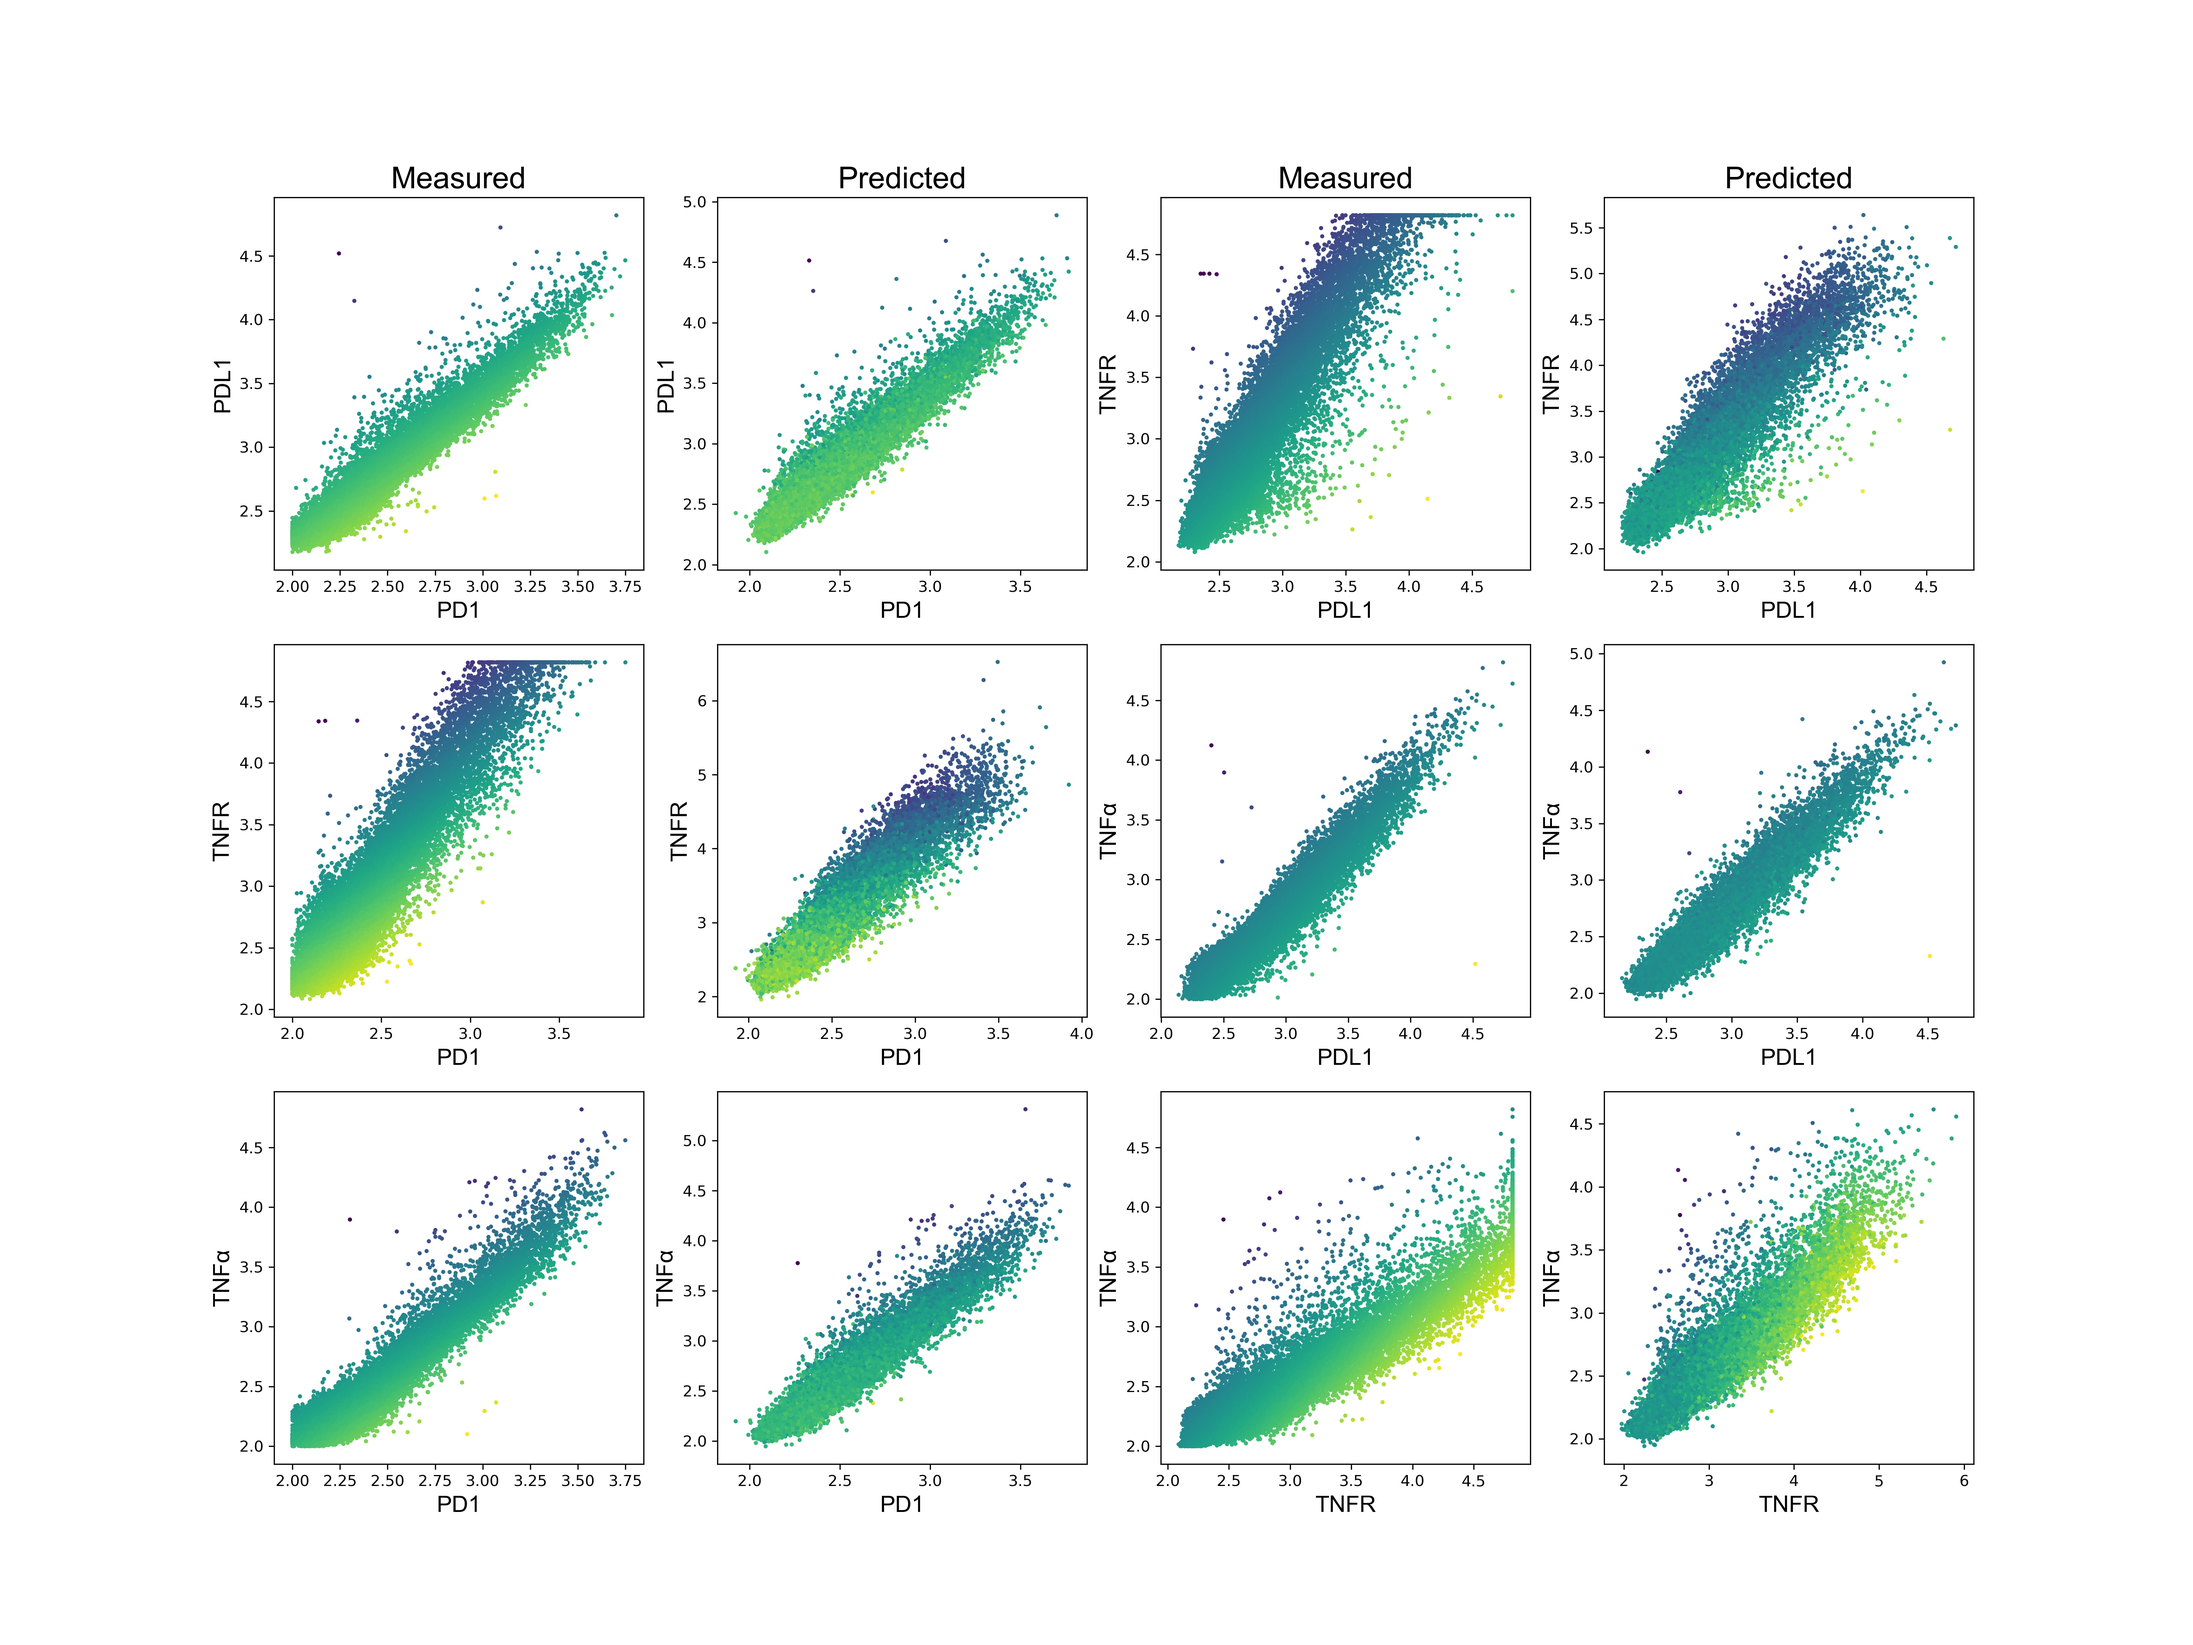
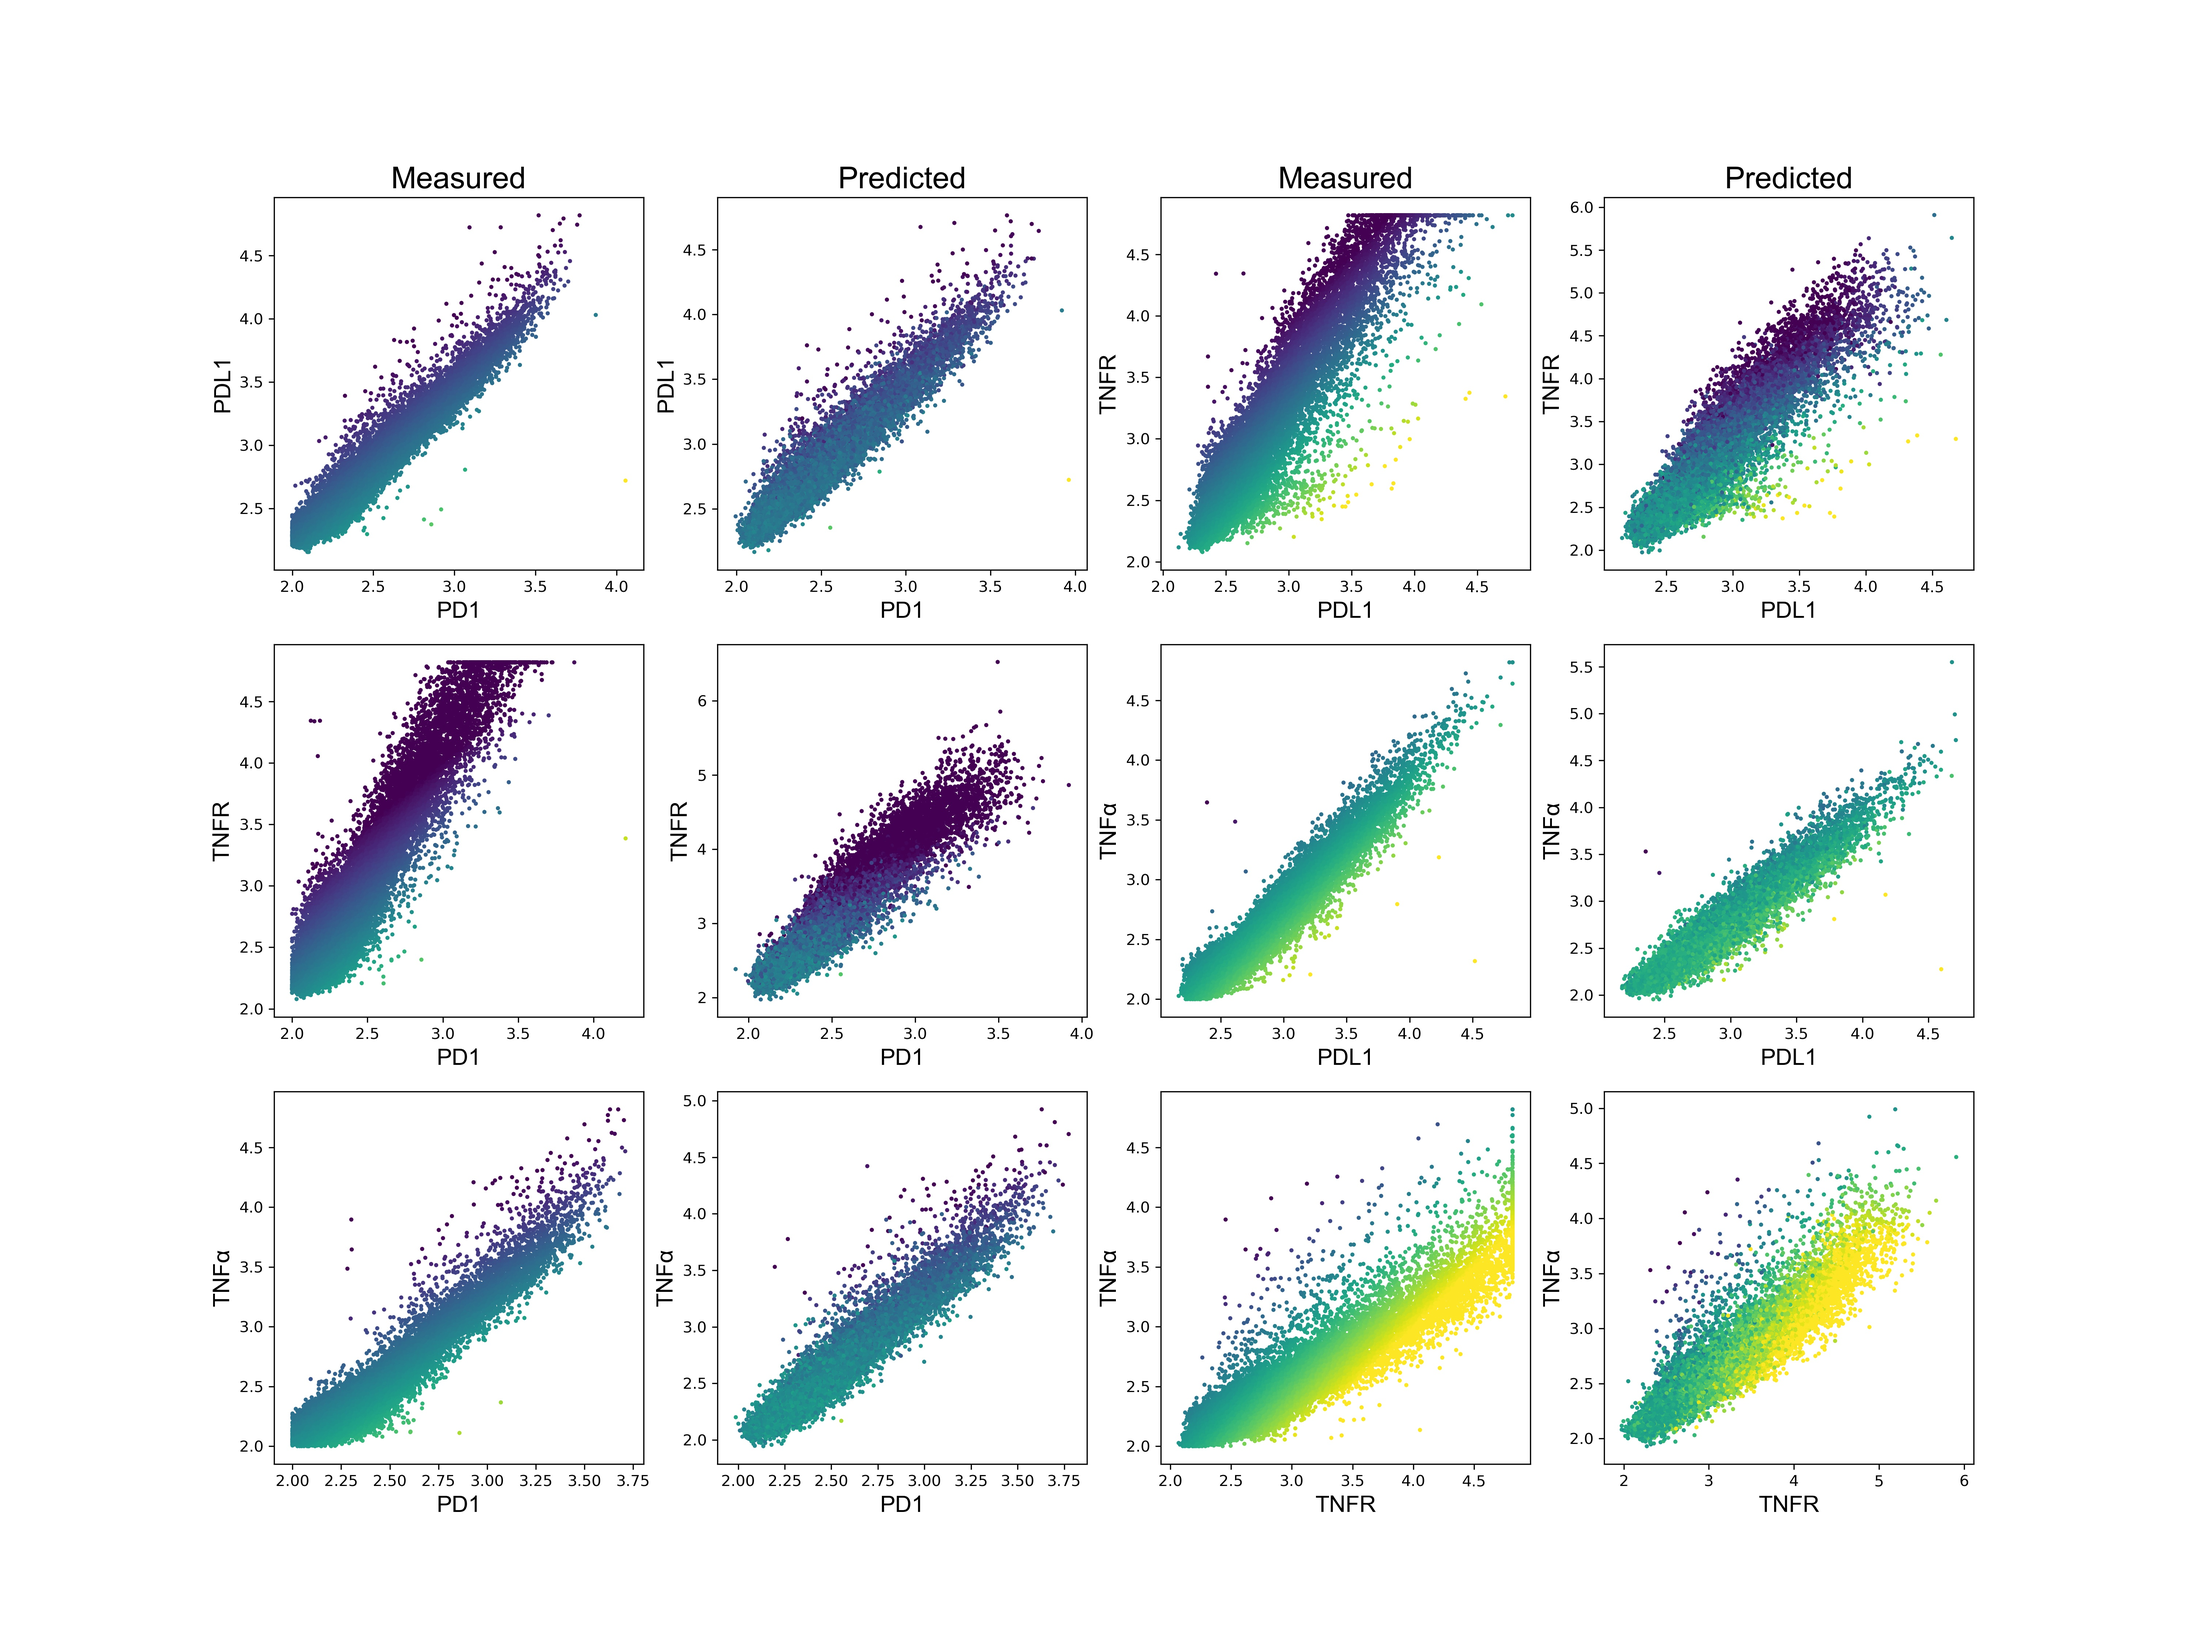
binding specificity distributions

diff --git a/plot_specificity_distributions.py b/plot_specificity_distributions.py
@@ -23,7 +23,7 @@ for i, target in enumerate(['Diaphorase', 'Ferredoxin', 'FNR']):
 # Read CIMw189-s9 peptide array data
 peptide_array = pd.read_excel('data/CIMw189-s9.xlsx', index_col=0, skiprows=6,
                               usecols=[2, 4, 5, 9, 10, 13, 14, 16, 17, 25, 26])
-for i, target in enumerate(['PDL1', 'PD1', 'TNFa', 'TNFR', 'Fc']):
+for i, target in enumerate(['PDL1', 'PD1', 'TNFα', 'TNFR', 'Fc']):
     data[target] = np.log10(peptide_array.iloc[:, 2*i:2*i+2].values + 100)
 
 # Plot binding specificities for Diaphorase, FNR, and Ferredoxin
@@ -31,80 +31,107 @@ fig, ax = plt.subplots(3, 1)
 target_group = ['Diaphorase', 'FNR', 'Ferredoxin']
 for i, target_pair in enumerate(combinations(target_group, 2)):
 
+    # Calculate self differences
+    target_1 = data[target_pair[0]][:, 0] - data[target_pair[0]][:, 1]
+    target_2 = data[target_pair[1]][:, 0] - data[target_pair[1]][:, 1]
+
     # Calculate specificity differences
     specificity = [pd.read_csv(f'data/{target}.csv', header=None)[1].values for target in target_pair]
     specificity = np.log10(np.vstack(specificity) + 100)
     specificity = specificity[0, :] - specificity[1, :]
 
-    # Calculate self differences
-    target_1 = data[target_pair[0]][:, 0] - data[target_pair[0]][:, 1]
-    target_2 = data[target_pair[1]][:, 0] - data[target_pair[1]][:, 1]
-
-    # Center distributions to the median
-    specificity -= np.median(specificity)
+    # Center distributions on the median
     target_1 -= np.median(target_1)
     target_2 -= np.median(target_2)
+    specificity -= np.median(specificity)
 
-    # Compute histogram
-    x_axis = np.arange(-1, 1, 0.01)
-    specificity, _ = np.histogram(specificity, x_axis, density=True)
+    # Take the absolute value
+    target_1 = np.abs(target_1)
+    target_2 = np.abs(target_2)
+    specificity = np.abs(specificity)
+
+    # Compute histograms
+    x_axis = np.arange(0, 1, 0.01)
     target_1, _ = np.histogram(target_1, x_axis, density=True)
     target_2, _ = np.histogram(target_2, x_axis, density=True)
+    specificity, _ = np.histogram(specificity, x_axis, density=True)
+
+    # Record binding specificity at half height
+    print(f'{target_pair[0].upper()}-{target_pair[1].upper()}')
+    print(f'- {target_pair[0]}: {x_axis[np.argmin(np.abs(target_1 - 0.5 * max(target_1)))]}')
+    print(f'- {target_pair[1]}: {x_axis[np.argmin(np.abs(target_2 - 0.5 * max(target_2)))]}')
+    print(f'- Specificity: {x_axis[np.argmin(np.abs(specificity - 0.5 * max(specificity)))]}')
 
     # Plot line histograms
-    ax[i].plot(x_axis[:-1], specificity)
     ax[i].plot(x_axis[:-1], target_1)
     ax[i].plot(x_axis[:-1], target_2)
+    ax[i].plot(x_axis[:-1], specificity)
     ax[i].set_yticks([])
     if i != 2:
         ax[i].set_xticks([])
-    ax[i].legend(['Specificity', *target_pair])
+    ax[i].legend([f'{target_pair[0]}', f'{target_pair[1]}',
+                  f'{target_pair[0]}-{target_pair[1]}'], loc='center right')
+    ax[i].set_title(f'{target_pair[0]}-{target_pair[1]}', x=0.5, y=0.8, fontsize=18)
 
 # Save plots
 plt.subplots_adjust(hspace=0)
-ax[2].set_xlabel('Binding Difference', fontname='Arial', fontsize=15)
+ax[2].set_xlabel('Binding Specificity', fontname='Arial', fontsize=15)
 ax[1].set_ylabel('Density', fontname='Arial', fontsize=15)
 fig.set_size_inches((5, 10), forward=False)
 plt.savefig('figures/specificity_distribution_HT-V13.jpg', dpi=300)
 
 # Plot binding specificities for PD1, PDL1, TNFR, and TNFa
 fig, ax = plt.subplots(3, 2)
-target_group = ['PD1', 'PDL1', 'TNFR', 'TNFa']
+target_group = ['PD1', 'PDL1', 'TNFR', 'TNFα']
 for i, target_pair in enumerate(combinations(target_group, 2)):
-
-    # Calculate specificity differences
-    specificity = [pd.read_csv(f'data/{target}.csv', header=None)[1].values for target in target_pair]
-    specificity = np.log10(np.vstack(specificity) + 100)
-    specificity = specificity[0, :] - specificity[1, :]
 
     # Calculate self differences
     target_1 = data[target_pair[0]][:, 0] - data[target_pair[0]][:, 1]
     target_2 = data[target_pair[1]][:, 0] - data[target_pair[1]][:, 1]
 
-    # Center distributions to the median
-    specificity -= np.median(specificity)
+    # Calculate specificity differences
+    specificity = [pd.read_csv(f'data/{target if target != "TNFα" else "TNFa"}.csv',
+                               header=None)[1].values for target in target_pair]
+    specificity = np.log10(np.vstack(specificity) + 100)
+    specificity = specificity[0, :] - specificity[1, :]
+
+    # Center distributions on the median
     target_1 -= np.median(target_1)
     target_2 -= np.median(target_2)
+    specificity -= np.median(specificity)
 
-    # Compute histogram
-    x_axis = np.arange(-1, 1, 0.01)
-    specificity, _ = np.histogram(specificity, x_axis, density=True)
+    # Take the absolute value
+    target_1 = np.abs(target_1)
+    target_2 = np.abs(target_2)
+    specificity = np.abs(specificity)
+
+    # Compute histograms
+    x_axis = np.arange(0, 1, 0.01)
     target_1, _ = np.histogram(target_1, x_axis, density=True)
     target_2, _ = np.histogram(target_2, x_axis, density=True)
+    specificity, _ = np.histogram(specificity, x_axis, density=True)
+
+    # Record binding specificity at half height
+    print(f'{target_pair[0].upper()}-{target_pair[1].upper()}')
+    print(f'- {target_pair[0]}: {x_axis[np.argmin(np.abs(target_1 - 0.5 * max(target_1)))]}')
+    print(f'- {target_pair[1]}: {x_axis[np.argmin(np.abs(target_2 - 0.5 * max(target_2)))]}')
+    print(f'- Specificity: {x_axis[np.argmin(np.abs(specificity - 0.5 * max(specificity)))]}')
 
     # Plot line histograms
-    ax[i%3, i//3].plot(x_axis[:-1], specificity)
     ax[i%3, i//3].plot(x_axis[:-1], target_1)
     ax[i%3, i//3].plot(x_axis[:-1], target_2)
+    ax[i%3, i//3].plot(x_axis[:-1], specificity)
     ax[i%3, i//3].set_yticks([])
     if i%3 != 2:
         ax[i%3, i//3].set_xticks([])
-    ax[i%3, i//3].legend(['Specificity', *target_pair])
+    ax[i%3, i//3].legend([f'{target_pair[0]}', f'{target_pair[1]}',
+                          f'{target_pair[0]}-{target_pair[1]}'], loc='center right')
+    ax[i%3, i//3].set_title(f'{target_pair[0]}-{target_pair[1]}', x=0.5, y=0.8, fontsize=18)
 
 # Save plots
 plt.subplots_adjust(hspace=0, wspace=0)
-ax[2, 0].set_xlabel('Binding Difference', fontname='Arial', fontsize=15)
-ax[2, 1].set_xlabel('Binding Difference', fontname='Arial', fontsize=15)
+ax[2, 0].set_xlabel('Binding Specificity', fontname='Arial', fontsize=15)
+ax[2, 1].set_xlabel('Binding Specificity', fontname='Arial', fontsize=15)
 ax[1, 0].set_ylabel('Density', fontname='Arial', fontsize=15)
 fig.set_size_inches((10, 10), forward=False)
 plt.savefig('figures/specificity_distribution_CIMw189-s9.jpg', dpi=300)

diff --git a/plot_specificity.py b/plot_specificity.py
@@ -20,7 +20,6 @@ for i, target_pair in enumerate(combinations(target_group, 2)):
 
     # Import binding datasets
     data = [pd.read_csv(f'data/{target}.csv', header=None)[1].values for target in target_pair]
-    data = np.log10(np.vstack(data) + 100)
 
     # Randomly split into train and test sets
     train_test_split = np.random.choice(len(data[0]), 90000, replace=False)
@@ -55,7 +54,6 @@ for i, target_pair in enumerate(combinations(target_group, 2)):
 
     # Import binding datasets
     data = [pd.read_csv(f'data/{target}.csv', header=None)[1].values for target in target_pair]
-    data = np.log10(np.vstack(data) + 100)
 
     # Randomly split into train and test sets
     train_test_split = np.random.choice(len(data[0]), 90000, replace=False)
@@ -69,10 +67,10 @@ for i, target_pair in enumerate(combinations(target_group, 2)):
         specificity.append(nn.fit()[2:])
 
     # Plot measured and predicted target specificity
-    colors = 3 * (specificity[0][0] - specificity[1][0])
+    colors = specificity[0][0] - specificity[1][0]
     target_pair = [target if target != 'TNFa' else 'TNFα' for target in target_pair]
-    ax[i%3, 2*(i//3) + 0].scatter(specificity[0][0], specificity[1][0], 3, c=colors)
-    ax[i%3, 2*(i//3) + 1].scatter(specificity[0][1], specificity[1][1], 3, c=colors)
+    ax[i%3, 2*(i//3) + 0].scatter(specificity[0][0], specificity[1][0], 3, c=colors, vmin=-1, vmax=1)
+    ax[i%3, 2*(i//3) + 1].scatter(specificity[0][1], specificity[1][1], 3, c=colors, vmin=-1, vmax=1)
     ax[i%3, 2*(i//3) + 0].set_xlabel(target_pair[0].split('.')[0], fontname='Arial', fontsize=15)
     ax[i%3, 2*(i//3) + 1].set_xlabel(target_pair[0].split('.')[0], fontname='Arial', fontsize=15)
     ax[i%3, 2*(i//3) + 0].set_ylabel(target_pair[1].split('.')[0], fontname='Arial', fontsize=15)
